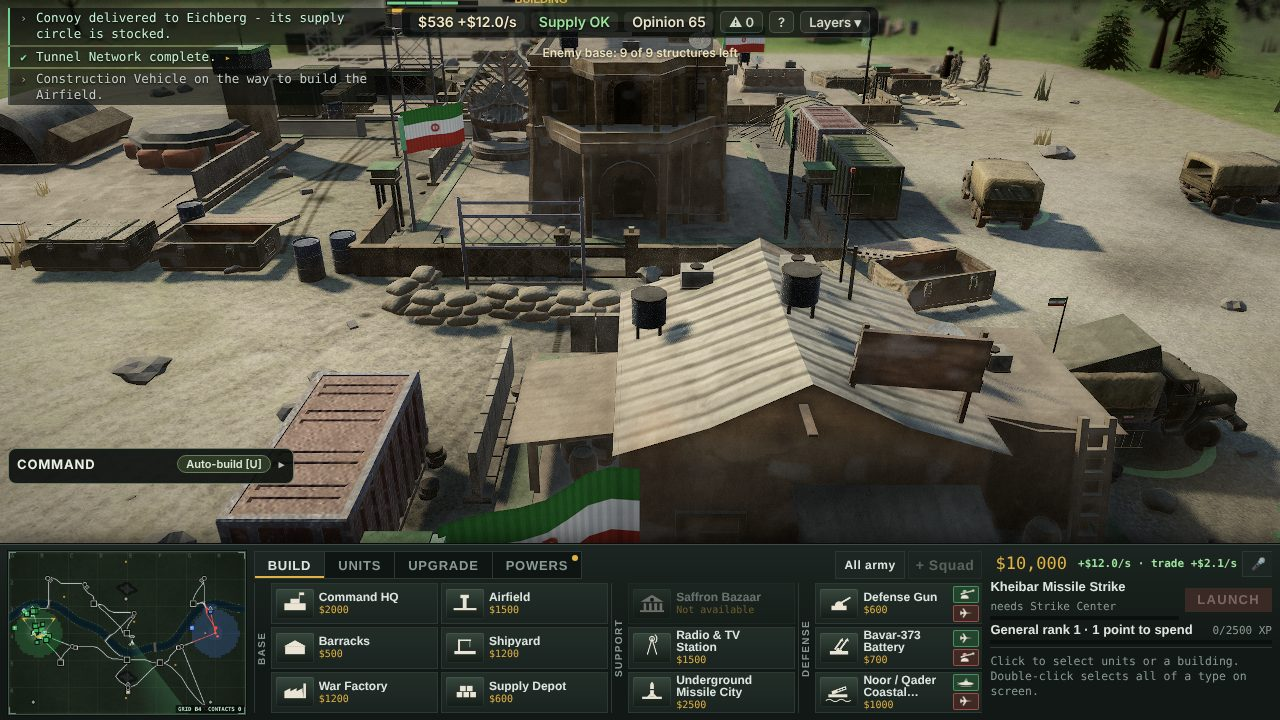
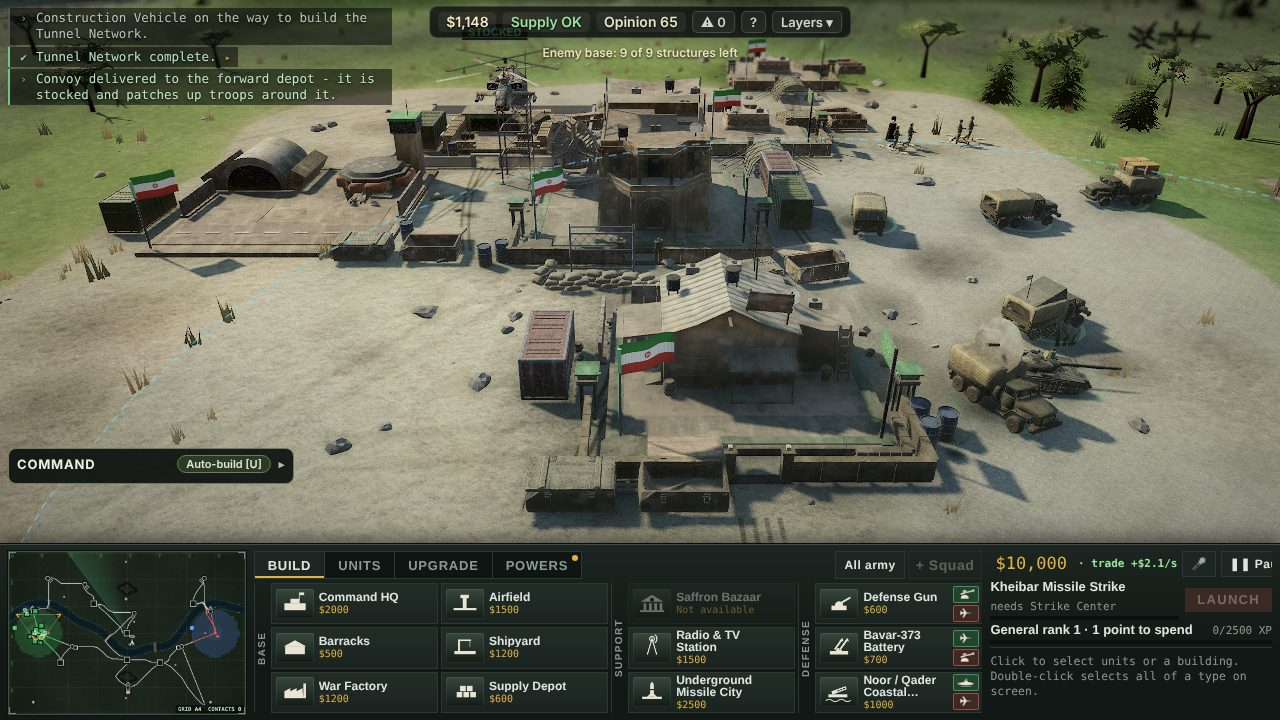
L4-bases handoff: parked until after Monday
Claude-Session: https://claude.ai/code/session_01GRiS9oWeN3KCRdDdtsNLhj

diff --git a/orch/HANDOFF-L4-bases.md b/orch/HANDOFF-L4-bases.md
@@ -1,0 +1,10 @@
+# HANDOFF L4-bases — parked until after Monday; NOT ready
+
+Stopped on ORCH's order (orch/L4-BASES-STOP.md). Nothing shipped to main; `orch/cigate.sh` was NOT run; smoke/decisions did not finish in this slow sandbox (build + `build.py --check` pass).
+
+Done (on branch orch/L4-bases):
+- `src/11c-bases.js`: one switch `baseStyle(fac)` = me | soviet | west; `baseYard` (merged yard per building: Soviet precast panels + barbed wire + green gate with red star + checkpoint booth + watch towers + floodlights; Western chain-link + boom barrier + glass guard cabin + jersey barriers + stacked cabins + LED poles + parking bays); `baseSlabKit` (gun/SAM rings); `baseTint` (nation tints on building models). OB and BI join the Middle-Eastern family.
+- Hooks in `src/11-models.js` (`roofKit`, slab branch, `RT`) - L5 owns that file, touched minimally.
+- Guard in `orch/decisions.mjs`, SYSTEMS.md row, `orch/l4shots.mjs` (shot script), shots `orch/shots/L4-{before,after}-{IR,RU,US}.jpg`.
+
+Left: run smoke, decisions, `orch/cigate.sh` (smooth-pc/mp not checked; yard meshes are one merged mesh per building), check RU/US shots by eye (differences are modest from the RTS camera), then land.
